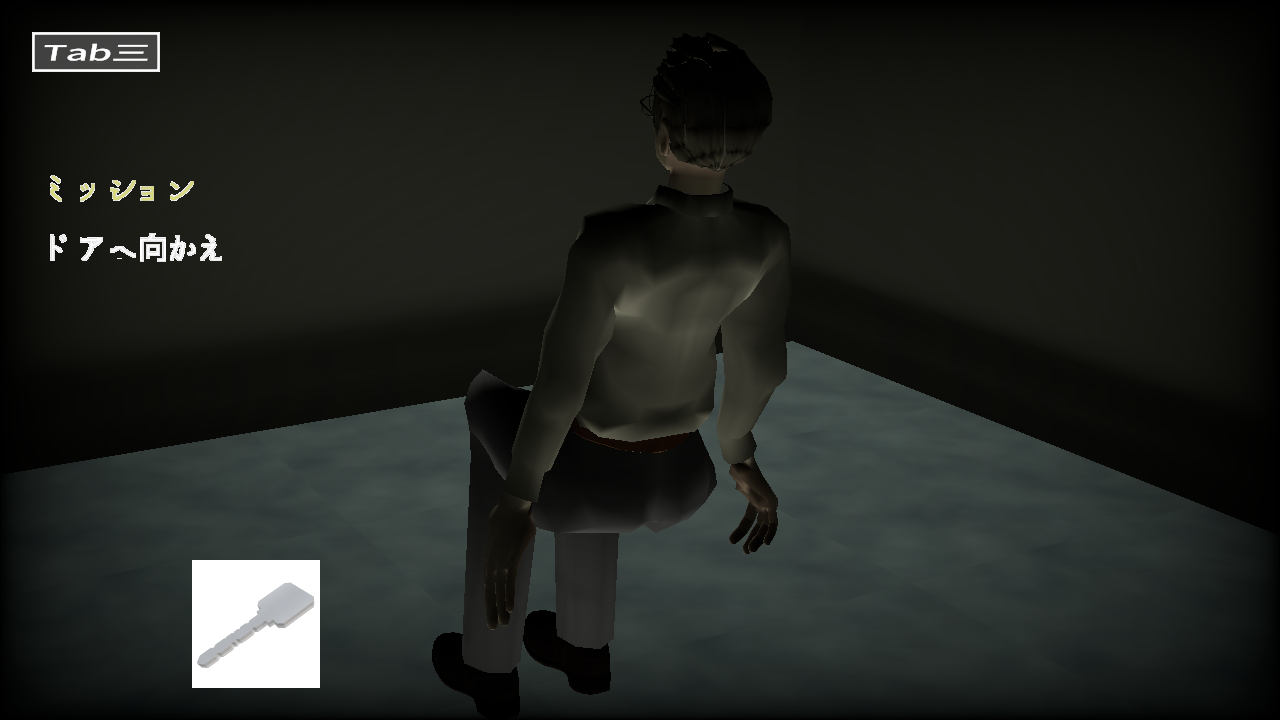
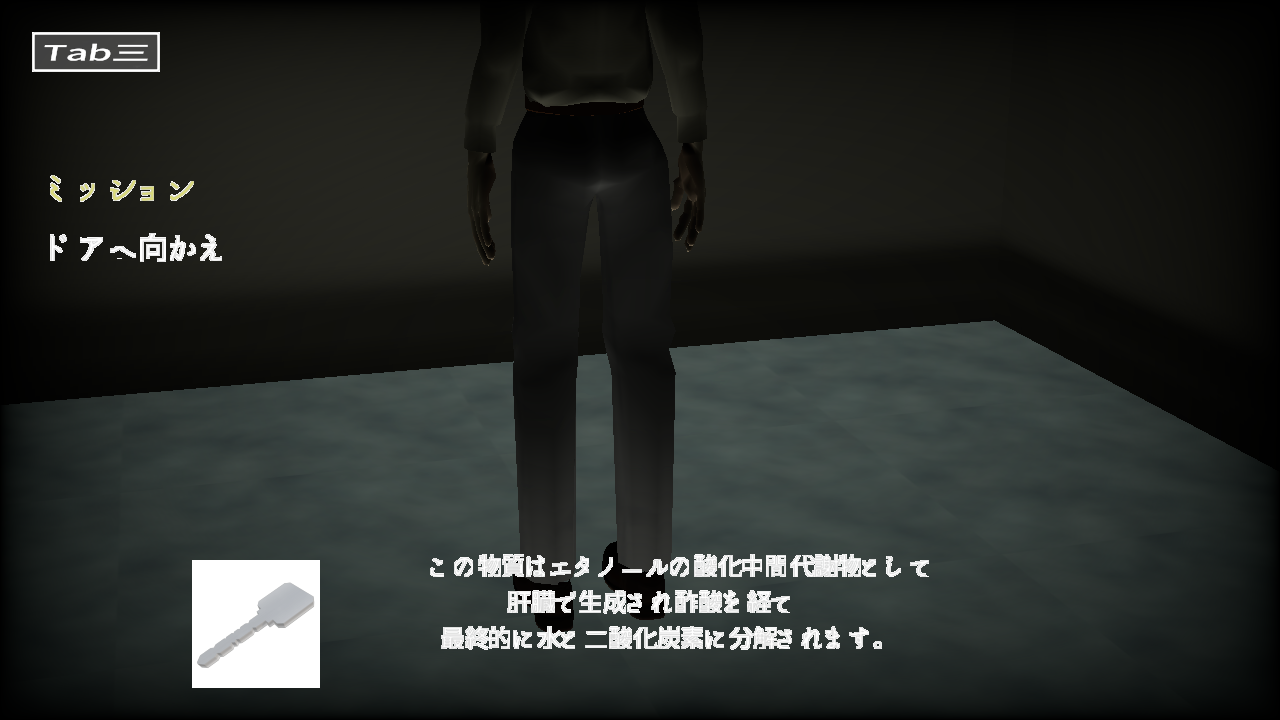
枝豆のライトを修正

diff --git a/project/application/Scene/TD3_4month/ShadowGameScene.cpp b/project/application/Scene/TD3_4month/ShadowGameScene.cpp
@@ -134,6 +134,11 @@ void ShadowGameScene::Initialize()
 
     //プレイヤーの初期化
     player_->Initialize();
+
+    if (!gameSave.GetInitStart()) {
+        player_->SetTransform(gameSave.GetPlayerSaveData().transform);
+    }
+
     PlayerCommand::Initialize();
 
     //カメラコントローラー
@@ -339,7 +344,7 @@ void ShadowGameScene::InitializeLights()
     spotLights_[0] = flashlight_->GetSpotLight();
     areaLights_[2] = vendingMac_->GetAreaLight();
 
-    activePointLightCount_ = 3;
+    activePointLightCount_ = 4;
     pointLights_[0].color = { 1.0f, 1.0f, 1.0f, 1.0f };
     pointLights_[0].position = { 7.0f, 5.0f, 0.0f };
     pointLights_[0].intensity = 1.0f;
@@ -351,7 +356,8 @@ void ShadowGameScene::InitializeLights()
     pointLights_[1].radius = 10.0f;
     pointLights_[1].decay = 1.0f;
 
-    pointLights_[2] = edamame_->GetPointLight();
+    pointLights_[2] = edamame_->GetPointLights().at(0);
+    pointLights_[3] = edamame_->GetPointLights().at(1);
 
     directionalLight_.color = { 1.0f, 1.0f, 0.75f, 1.0f };
     directionalLight_.direction = { 0.0f, 1.0f, 0.0f };
@@ -449,7 +455,6 @@ void ShadowGameScene::UpdateGameObject()
     portalManager_->WarpPlayer(player_.get());
     //プレイヤー
     player_->Update();
-
     //携帯打刻機
     timeCardWatch_->Update();
     //懐中電灯
@@ -572,7 +577,8 @@ void ShadowGameScene::UpdateLight() {
 
     spotLights_[0] = flashlight_->GetSpotLight();
 
-    pointLights_[2] = edamame_->GetPointLight();
+    pointLights_[2] = edamame_->GetPointLights().at(0);
+    pointLights_[3] = edamame_->GetPointLights().at(1);
 
     areaLights_[2] = vendingMac_->GetAreaLight();
     areaLights_[3] = wallManager_->GetAreaLight();

diff --git a/project/application/GameObject/Edamame/Edamame.cpp b/project/application/GameObject/Edamame/Edamame.cpp
@@ -47,13 +47,17 @@ void Edamame::Initialize()
     edamameModel_->Initialize();
 
 
-    pointLight_.color = { 1.0f, 1.0f, 0.25f, 1.0f };
-    pointLight_.position = worldTransform_.translate;
-    pointLight_.position.y += 1.0f;
-    pointLight_.intensity = 4.0f;
-    pointLight_.radius = 4.0f;
-    pointLight_.decay = 1.0f;
-    pointLight_.shadowEnabled =  true;
+    pointLights_[0].color = { 1.0f, 1.0f, 0.25f, 1.0f };
+    pointLights_[0].position = worldTransform_.translate;
+    pointLights_[0].position.y += 0.5f;
+    pointLights_[0].intensity = 2.0f;
+    pointLights_[0].radius = 4.0f;
+    pointLights_[0].decay = 10.00f;
+    pointLights_[0].shadowEnabled =  false;
+
+    pointLights_[1] = pointLights_[0];
+    pointLights_[1].position = worldTransform_.translate;
+    pointLights_[1].position.y -= 0.5f;
 }
 
 void Edamame::Update()
@@ -62,7 +66,7 @@ void Edamame::Update()
     obj_->SetTransform(worldTransform_);
     obj_->UpdateBillboard();
     Vector3 pos = worldTransform_.translate;
-    pos -= playerCamera_->GetRay().diff * 0.25f;
+    pos -= playerCamera_->GetRay().diff * 0.25f; 
     //スポットライト
     //枝豆モデルに座標をセットする
     edamameModel_->SetTranslate(pos);

diff --git a/project/application/GameObject/Player/Player.h b/project/application/GameObject/Player/Player.h
@@ -72,7 +72,6 @@ private:
 public:
     Matrix4x4 GetJointMatrix(const char* jointName)const;
     Vector3 GetJointWorldPos(const char* jointName)const;
-
     void OnCollision(Collider* collider) override;
     /// @brief ワールド座標を取得する
     /// @return ワールド座標
@@ -86,8 +85,9 @@ public:
    const Matrix4x4& GetWorldMatrix()const override {
        return bodyObj_->GetWorldMatrix();
    };
-    void SetTranslate(const Vector3& translate) { transform_.translate = translate; };
-    void SetRotate(const Vector3& rotate) { transform_.rotate = rotate; }
+   void SetTranslate(const Vector3& translate) { transform_.translate = translate; };
+   void SetRotate(const Vector3& rotate) { transform_.rotate = rotate; }
+    void SetTransform(const Transform& transform) { transform_ = transform; }
     // コンストラクタ
     Player();
     // カメラのセッター

diff --git a/project/application/GameObject/Edamame/Edamame.h b/project/application/GameObject/Edamame/Edamame.h
@@ -23,7 +23,7 @@ public:
     void CheckCollision();
     bool OnCollisionRay();
     void Trivia();
-   PointCommonLight& GetPointLight() { return pointLight_; };
+    std::array<PointCommonLight, 2>& GetPointLights() { return pointLights_; };
 
     std::unique_ptr<EdamameModel>& GetEdamameModel() {return edamameModel_;}
 private:
@@ -33,7 +33,7 @@ private:
     AABB localAABB_ = {};
     PlayerCamera* playerCamera_ = nullptr;
     Transform worldTransform_ = {};
-    PointCommonLight pointLight_;
+    std::array<PointCommonLight,2> pointLights_;
     static bool isRayHit_;
 };
 

diff --git a/project/application/GameObject/Player/Player.cpp b/project/application/GameObject/Player/Player.cpp
@@ -89,19 +89,13 @@ void Player::SetCamera(Camera* camera) {
 }
 void Player::Initialize() {
 
-    auto& gameSave = GameSave::GetInstance();
-
-    if (gameSave.GetInitStart()) { 
     // 座標の初期化
     transform_ = {
         .scale{1.0f, 1.0f, 1.0f},
         .rotate{0.0f,Function::kPi, 0.0f},
         .translate{6.25f, 1.5f, 4.0f}
     };
-    } else {
-        transform_ = gameSave.GetPlayerSaveData().transform;
-    }
-
+   
     // 速度の初期化
     velocity_ = { 0.0f };
     forward_ = { 0.0f };

diff --git a/project/application/GameObject/Edamame/EdamameModel.cpp b/project/application/GameObject/Edamame/EdamameModel.cpp
@@ -175,7 +175,6 @@ void EdamameModel::Initialize()
 
 void EdamameModel::Draw()
 {
-    Object3dCommon::GetInstance()->DrawCommonSkinningToon();
     obj_->Draw();
-    Object3dCommon::GetInstance()->DrawCommon();
+
 }
